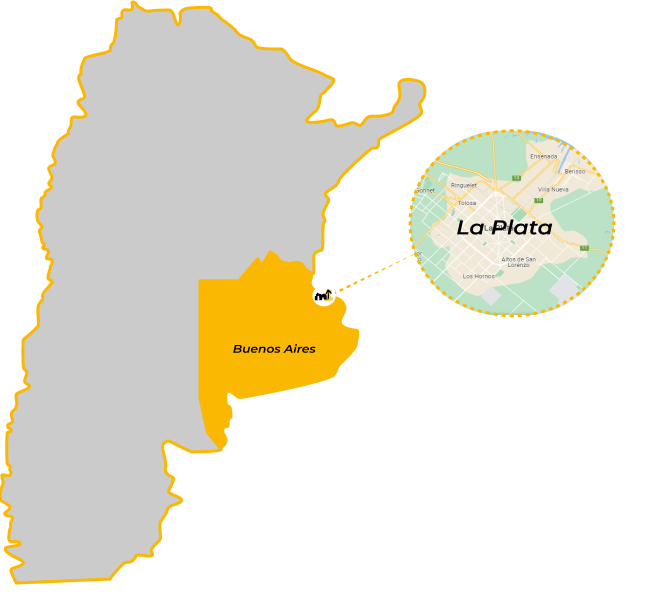
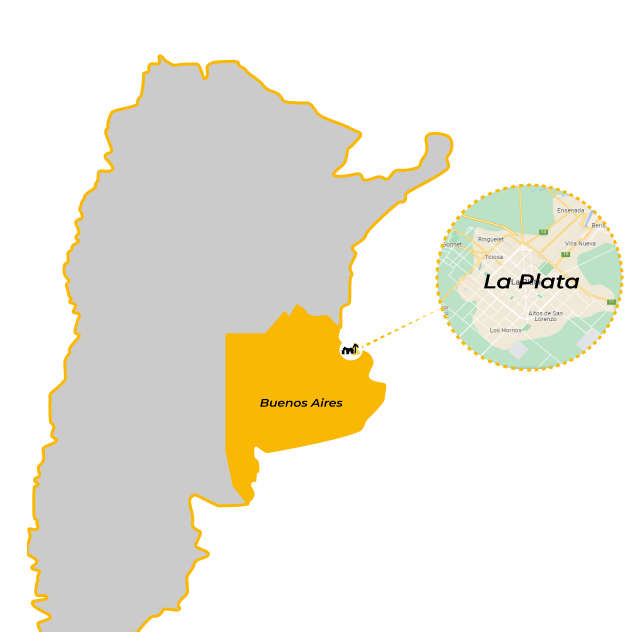
Se modifica seccion mapa

Changed region(s): [[0.0, 0.0, 0.9952, 1.0], [0.6032, 0.5126, 0.6333, 0.5427]]

diff --git a/css/styles.css b/css/styles.css
@@ -116,17 +116,13 @@ main .main_conocenos {
         filter: drop-shadow(0 0.25rem 0.25rem rgba(0, 0, 0, 0.25)); }
 
 main .main_mapa {
-  background-color: #F5F5F5;
-  height: 40rem;
+  background-color: #FFFFFF;
+  height: 39.5rem;
   display: flex;
   flex-flow: row nowrap;
   justify-content: center; }
-  main .main_mapa .main_mapa_img {
-    margin-top: 7rem; }
-    main .main_mapa .main_mapa_img img {
-      height: 530px;
-      width: 646px;
-      align-self: flex-end; }
+  main .main_mapa .main_mapa_img img {
+    margin-left: 5.3rem; }
   main .main_mapa div {
     display: flex;
     flex-direction: column;
@@ -247,14 +243,6 @@ main .main_objetivos div div {
   margin: 2rem 6.25rem 4rem; }
   main .main_objetivos div div img {
     padding: 0.5rem; }
-
-.carousel-inner > .item.prev.right > div:nth-child(2),
-.carousel-inner > .item.prev.right > div:nth-child(3) {
-  display: none; }
-
-.carousel-inner > .item.active.left > div:nth-child(2),
-.carousel-inner > .item.active.left > div:nth-child(3) {
-  display: none; }
 
 /*!
  * Bootstrap v5.1.3 (https://getbootstrap.com/)
@@ -4831,13 +4819,17 @@ textarea.form-control-lg {
     display: block;
     clear: both;
     content: ""; }
+  .carousel-inner .carousel-item img {
+    display: block;
+    max-width: 100%;
+    height: auto;
+    line-height: 1; }
 
 .carousel-item {
   position: relative;
   display: none;
   float: left;
   width: 100%;
-  margin-right: -100%;
   backface-visibility: hidden;
   transition: transform 0.6s ease-in-out; }
   @media (prefers-reduced-motion: reduce) {

diff --git a/scss/_index.scss b/scss/_index.scss
@@ -56,17 +56,14 @@ main {
         }
     }
     .main_mapa{
-        background-color: #F5F5F5;
-        height: 40rem;
+        background-color: #FFFFFF;
+        height: 39.5rem;
         display: flex;
         flex-flow: row nowrap;
         justify-content: center;
         .main_mapa_img{
-            margin-top: 7rem;
             img{
-                height: 530px;
-                width: 646px;
-                align-self: flex-end;
+                margin-left: 5.3rem;
             }
         }
         div{
